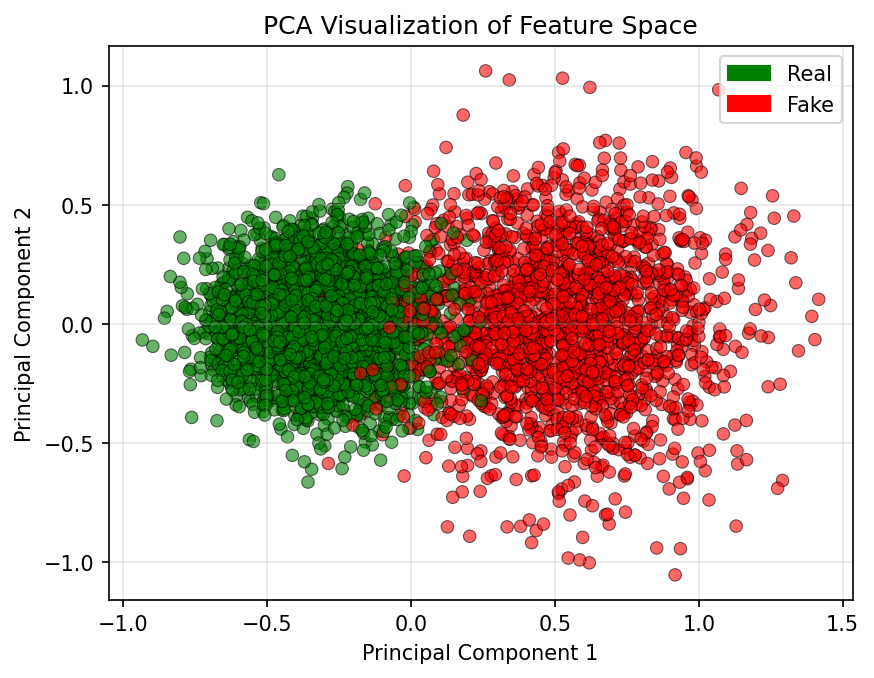
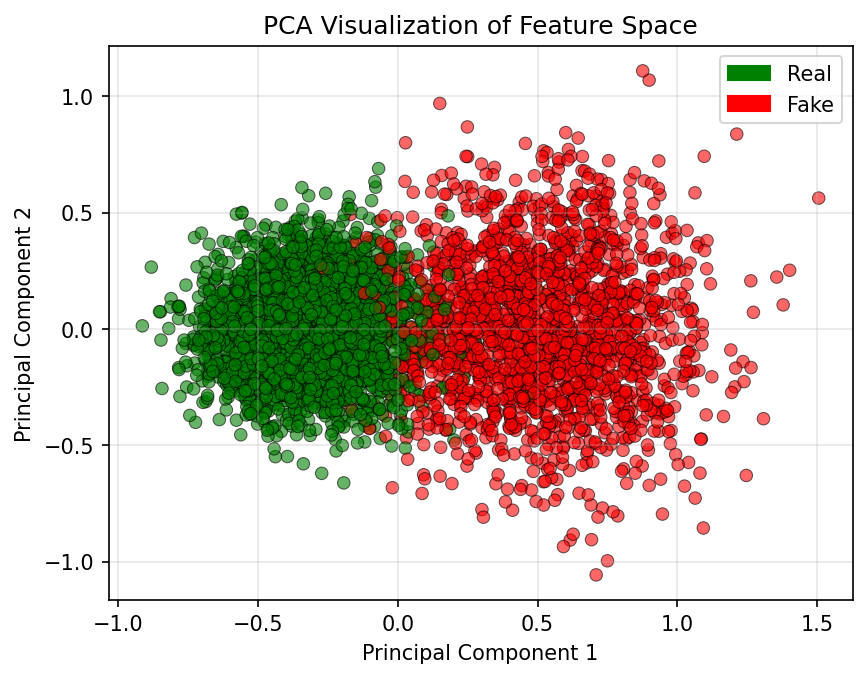
Add files via upload

diff --git a/test_model.py b/test_model.py
@@ -1,11 +1,18 @@
+#!/usr/bin/env python3
 # -*- coding: utf-8 -*-
 """
+AI换脸模型测试软件（英文图表版 - 美化样式版）
+批量测试真实/伪造图片，输出性能指标并绘制图表（带面积填充）
+
 python test_model.py --real_dir ./real --fake_dir ./fake \
                      --model isolation_forest_model.pkl \
                      --scaler scaler.pkl \
                      --threshold threshold.txt \
                      --predictor shape_predictor_68_face_landmarks.dat \
                      --output_dir ./results
+
+
+python test_model.py --real_dir ./data/dedup_real --fake_dir ./data/dedup_fake --model isolation_forest_model_202602221638.pkl --scaler scaler_202602221638.pkl --threshold threshold_202602221638.txt --predictor shape_predictor_68_face_landmarks.dat
 """
 
 import os
@@ -17,7 +24,7 @@ import cv2
 import dlib
 import numpy as np
 import matplotlib
-matplotlib.use('Agg')
+matplotlib.use('Agg')  # 无图形界面时仍可保存图片
 import matplotlib.pyplot as plt
 from sklearn.decomposition import PCA
 from sklearn.metrics import (
@@ -37,19 +44,26 @@ DEFAULT_PREDICTOR_PATH = "shape_predictor_68_face_landmarks.dat"
 
 # 初始化dlib
 detector = dlib.get_frontal_face_detector()
-predictor = None
+predictor = None  # 将在主程序中加载
 
+# -------------------- 特征提取函数（与训练时完全一致） --------------------
 def extract_features(image_path, predictor):
+    """
+    从单张图片提取特征向量
+    返回: 特征列表 (numpy array) 或 None（如果人脸检测失败）
+    """
     img = cv2.imread(image_path)
     if img is None:
         return None
     gray = cv2.cvtColor(img, cv2.COLOR_BGR2GRAY)
 
+    # 人脸检测
     faces = detector(gray, 1)
     if len(faces) == 0:
         return None
-    face = faces[0]
+    face = faces[0]  # 取最大人脸
 
+    # 获取关键点
     landmarks = predictor(gray, face)
     points = np.array([(p.x, p.y) for p in landmarks.parts()])
 
@@ -138,7 +152,12 @@ def extract_features(image_path, predictor):
     ])
     return features
 
+# -------------------- 批量处理函数 --------------------
 def process_directory(dir_path, label, model, scaler, threshold, predictor, ext_list=('*.jpg','*.jpeg','*.png')):
+    """
+    处理一个目录下的所有图片
+    返回: 特征列表, 得分列表, 预测标签列表, 真实标签列表, 成功图片路径列表, 失败计数
+    """
     features_list = []
     scores_list = []
     preds_list = []
@@ -146,6 +165,7 @@ def process_directory(dir_path, label, model, scaler, threshold, predictor, ext_
     img_paths_success = []
     fail_count = 0
 
+    # 收集所有图片
     image_paths = []
     for ext in ext_list:
         image_paths.extend(glob.glob(os.path.join(dir_path, ext)))
@@ -172,56 +192,85 @@ def process_directory(dir_path, label, model, scaler, threshold, predictor, ext_
 
     return features_list, scores_list, preds_list, true_labels, img_paths_success, fail_count
 
+# -------------------- 绘图函数（美化版 - 带面积填充） --------------------
 def save_roc_curve(y_true, y_score, save_path):
+    """绘制ROC曲线（带面积填充）"""
     fpr, tpr, _ = roc_curve(y_true, y_score)
     roc_auc = auc(fpr, tpr)
-    plt.figure()
-    plt.plot(fpr, tpr, color='darkorange', lw=2, label=f'ROC curve (AUC = {roc_auc:.3f})')
-    plt.plot([0, 1], [0, 1], color='navy', lw=2, linestyle='--')
+
+    plt.figure(figsize=(8, 6))
+    # 绘制曲线
+    plt.plot(fpr, tpr, color='#E74C3C', lw=2.5, label=f'ROC curve (AUC = {roc_auc:.4f})')
+    # 填充曲线下面积
+    plt.fill_between(fpr, tpr, alpha=0.15, color='#E74C3C')
+    # 对角线
+    plt.plot([0, 1], [0, 1], color='#34495E', lw=2, linestyle='--', alpha=0.7)
+
     plt.xlim([0.0, 1.0])
     plt.ylim([0.0, 1.05])
-    plt.xlabel('False Positive Rate')
-    plt.ylabel('True Positive Rate')
-    plt.title('Receiver Operating Characteristic (ROC)')
-    plt.legend(loc="lower right")
-    plt.grid(alpha=0.3)
+    plt.xlabel('False Positive Rate', fontsize=12)
+    plt.ylabel('True Positive Rate', fontsize=12)
+    plt.title('Receiver Operating Characteristic (ROC)', fontsize=14)
+    plt.legend(loc="lower right", fontsize=11)
+    plt.grid(alpha=0.3, linestyle='--')
+    plt.tight_layout()
     plt.savefig(save_path, dpi=150, bbox_inches='tight')
     plt.close()
     return roc_auc
 
 def save_pr_curve(y_true, y_score, save_path):
+    """绘制PR曲线（带面积填充）"""
     precision, recall, _ = precision_recall_curve(y_true, y_score)
     ap = average_precision_score(y_true, y_score)
-    plt.figure()
-    plt.plot(recall, precision, color='blue', lw=2, label=f'PR curve (AP = {ap:.3f})')
-    plt.xlabel('Recall')
-    plt.ylabel('Precision')
-    plt.title('Precision-Recall Curve')
-    plt.legend(loc="lower left")
-    plt.grid(alpha=0.3)
+
+    plt.figure(figsize=(8, 6))
+    # 绘制曲线
+    plt.plot(recall, precision, color='#3498DB', lw=2.5, label=f'PR curve (AP = {ap:.4f})')
+    # 填充曲线下面积
+    plt.fill_between(recall, precision, alpha=0.15, color='#3498DB')
+
+    # 基准线（随机分类器）
+    pos_ratio = np.sum(y_true) / len(y_true)
+    plt.axhline(y=pos_ratio, color='#34495E', linestyle='--', alpha=0.7,
+                label=f'Baseline ({pos_ratio:.3f})')
+
+    plt.xlabel('Recall', fontsize=12)
+    plt.ylabel('Precision', fontsize=12)
+    plt.title('Precision-Recall Curve', fontsize=14)
+    plt.legend(loc="lower left", fontsize=11)
+    plt.xlim([0.0, 1.0])
+    plt.ylim([0.0, 1.05])
+    plt.grid(alpha=0.3, linestyle='--')
+    plt.tight_layout()
     plt.savefig(save_path, dpi=150, bbox_inches='tight')
     plt.close()
     return ap
 
 def save_confusion_matrix(y_true, y_pred, save_path, labels=['Real', 'Fake']):
+    """
+    绘制混淆矩阵，每个格子的面积与对应的样本数成正比
+    """
     cm = confusion_matrix(y_true, y_pred)
     tn, fp, fn, tp = cm.ravel()
     values = [[tn, fp], [fn, tp]]
     max_val = max(tn, fp, fn, tp)
     if max_val == 0:
-        return
+        return  # 无数据，不绘图
 
-    fig, ax = plt.subplots(figsize=(6,5))
-    scale = 0.8
+    fig, ax = plt.subplots(figsize=(6, 5))
+    scale = 0.8  # 最大矩形尺寸占单元格的比例，避免重叠
 
-    for i in range(2):
-        for j in range(2):
+    # 绘制四个矩形，坐标：x轴为预测类别(0左,1右)，y轴为真实类别(0上,1下)
+    for i in range(2):          # 真实标签 i=0:Real, i=1:Fake
+        for j in range(2):      # 预测标签 j=0:Real, j=1:Fake
             val = values[i][j]
             if val == 0:
                 continue
+            # 矩形的宽度和高度与 val 的平方根成正比，使得面积与 val 成正比
             size = np.sqrt(val / max_val) * scale
             w = size
             h = size
+            # 中心点坐标：(j, 1-i) 使矩阵的左上角为TN
             center_x = j
             center_y = 1 - i
             rect = plt.Rectangle(
@@ -231,56 +280,76 @@ def save_confusion_matrix(y_true, y_pred, save_path, labels=['Real', 'Fake']):
                 linewidth=1
             )
             ax.add_patch(rect)
+            # 在矩形中心添加数字标签，根据背景色选择字体颜色
             text_color = 'white' if val/max_val > 0.5 else 'black'
             ax.text(center_x, center_y, str(val),
                     ha='center', va='center', fontsize=12, color=text_color)
 
+    # 设置坐标轴范围与标签
     ax.set_xlim(-0.5, 1.5)
     ax.set_ylim(-0.5, 1.5)
     ax.set_xticks([0, 1])
     ax.set_xticklabels(labels)
     ax.set_yticks([0, 1])
     ax.set_yticklabels(labels[::-1])  # 反转使顶部为Real，底部为Fake
-    ax.set_xlabel('Predicted label')
-    ax.set_ylabel('True label')
-    ax.set_title('Confusion Matrix (area ∝ count)')
+    ax.set_xlabel('Predicted label', fontsize=12)
+    ax.set_ylabel('True label', fontsize=12)
+    ax.set_title('Confusion Matrix (area ∝ count)', fontsize=14)
     ax.set_aspect('equal')
     plt.tight_layout()
     plt.savefig(save_path, dpi=150, bbox_inches='tight')
     plt.close()
 
-def save_score_distribution(y_true, y_score, save_path):
+def save_score_distribution(y_true, y_score, save_path, threshold_val=None):
+    """绘制得分分布（带阈值线）"""
     real_scores = [y_score[i] for i in range(len(y_true)) if y_true[i] == 0]
     fake_scores = [y_score[i] for i in range(len(y_true)) if y_true[i] == 1]
-    plt.figure()
-    plt.hist(real_scores, bins=30, alpha=0.7, label='Real', color='green', density=True)
-    plt.hist(fake_scores, bins=30, alpha=0.7, label='Fake', color='red', density=True)
-    plt.xlabel('Anomaly Score')
-    plt.ylabel('Density')
-    plt.title('Anomaly Score Distribution')
-    plt.legend()
-    plt.grid(alpha=0.3)
+
+    plt.figure(figsize=(8, 6))
+    plt.hist(real_scores, bins=30, alpha=0.7, label='Real', color='#2ECC71', density=True, edgecolor='white', linewidth=0.5)
+    plt.hist(fake_scores, bins=30, alpha=0.7, label='Fake', color='#E74C3C', density=True, edgecolor='white', linewidth=0.5)
+
+    # 添加阈值线
+    if threshold_val is not None:
+        plt.axvline(x=threshold_val, color='#34495E', linestyle='--', linewidth=2, label=f'Threshold = {threshold_val:.6f}')
+
+    plt.xlabel('Anomaly Score', fontsize=12)
+    plt.ylabel('Density', fontsize=12)
+    plt.title('Anomaly Score Distribution', fontsize=14)
+    plt.legend(fontsize=11)
+    plt.grid(alpha=0.3, linestyle='--')
+    plt.tight_layout()
     plt.savefig(save_path, dpi=150, bbox_inches='tight')
     plt.close()
 
 def save_pca_scatter(features, y_true, save_path):
+    """绘制PCA散点图（美化版）"""
     pca = PCA(n_components=2)
     features_2d = pca.fit_transform(features)
-    plt.figure()
-    colors = ['green' if label == 0 else 'red' for label in y_true]
-    plt.scatter(features_2d[:, 0], features_2d[:, 1], c=colors, alpha=0.6, edgecolors='k', linewidth=0.5)
-    plt.xlabel('Principal Component 1')
-    plt.ylabel('Principal Component 2')
-    plt.title('PCA Visualization of Feature Space')
-    # 创建图例
-    import matplotlib.patches as mpatches
-    green_patch = mpatches.Patch(color='green', label='Real')
-    red_patch = mpatches.Patch(color='red', label='Fake')
-    plt.legend(handles=[green_patch, red_patch])
-    plt.grid(alpha=0.3)
+
+    plt.figure(figsize=(8, 6))
+
+    # 分别绘制两类点
+    real_mask = np.array(y_true) == 0
+    fake_mask = np.array(y_true) == 1
+
+    plt.scatter(features_2d[real_mask, 0], features_2d[real_mask, 1],
+                c='#2ECC71', alpha=0.6, edgecolors='k', linewidth=0.5,
+                label='Real', s=50)
+    plt.scatter(features_2d[fake_mask, 0], features_2d[fake_mask, 1],
+                c='#E74C3C', alpha=0.6, edgecolors='k', linewidth=0.5,
+                label='Fake', s=50)
+
+    plt.xlabel('Principal Component 1', fontsize=12)
+    plt.ylabel('Principal Component 2', fontsize=12)
+    plt.title('PCA Visualization of Feature Space', fontsize=14)
+    plt.legend(fontsize=11)
+    plt.grid(alpha=0.3, linestyle='--')
+    plt.tight_layout()
     plt.savefig(save_path, dpi=150, bbox_inches='tight')
     plt.close()
 
+# -------------------- 主程序 --------------------
 def main():
     parser = argparse.ArgumentParser(description='AI Face Forgery Model Testing Tool')
     parser.add_argument('--real_dir', type=str, required=True, help='Directory containing real face images')
@@ -292,11 +361,13 @@ def main():
     parser.add_argument('--output_dir', type=str, default=None, help='Output directory for charts and report (default: model_name + " test results")')
     args = parser.parse_args()
 
+    # 确定输出目录名称：模型名称 + " test results"
     if args.output_dir is None:
         model_basename = os.path.splitext(os.path.basename(args.model))[0]
         args.output_dir = model_basename + " test results"
     os.makedirs(args.output_dir, exist_ok=True)
 
+    # 加载模型、标准化器、阈值
     print("Loading model...")
     if not os.path.exists(args.model):
         print(f"Error: Model file {args.model} does not exist")
@@ -333,11 +404,13 @@ def main():
         args.fake_dir, 1, model, scaler, threshold, predictor
     )
 
+    # 合并数据
     all_features = np.array(real_feat + fake_feat)
     all_scores = np.array(real_scores + fake_scores)
     all_preds = np.array(real_preds + fake_preds)
     all_true = np.array(real_true + fake_true)
 
+    # 统计
     total_real = len(real_paths) + real_fail
     total_fake = len(fake_paths) + fake_fail
     success_real = len(real_paths)
@@ -359,7 +432,9 @@ def main():
     recall = tp / (tp + fn) if (tp + fn) > 0 else 0
     f1 = 2 * precision * recall / (precision + recall) if (precision + recall) > 0 else 0
 
+    # 新增：真实人脸识别准确率（特异性）和伪造人脸识别准确率（召回率）
     specificity = tn / (tn + fp) if (tn + fp) > 0 else 0
+    # recall 即为伪造人脸识别准确率
 
     print(f"Accuracy:  {accuracy:.4f}")
     print(f"Precision: {precision:.4f}")
@@ -381,20 +456,21 @@ def main():
 
     # 保存图表
     print(f"\nGenerating charts and saving to {args.output_dir} ...")
-    # ROC曲线
+    # ROC曲线（带面积填充）
     if roc_auc is not None:
         save_roc_curve(all_true, all_scores, os.path.join(args.output_dir, 'roc_curve.png'))
-    # PR曲线
+    # PR曲线（带面积填充）
     if ap is not None:
         save_pr_curve(all_true, all_scores, os.path.join(args.output_dir, 'pr_curve.png'))
-    # 混淆矩阵
+    # 混淆矩阵（面积比例版）
     save_confusion_matrix(all_true, all_preds, os.path.join(args.output_dir, 'confusion_matrix.png'))
-    # 得分分布
-    save_score_distribution(all_true, all_scores, os.path.join(args.output_dir, 'score_distribution.png'))
-    # PCA散点图
+    # 得分分布（带阈值线）
+    save_score_distribution(all_true, all_scores, os.path.join(args.output_dir, 'score_distribution.png'), threshold_val=threshold)
+    # PCA散点图（美化版）
     if len(all_features) > 1:
         save_pca_scatter(all_features, all_true, os.path.join(args.output_dir, 'pca_scatter.png'))
 
+    # 保存指标到文本文件
     report_path = os.path.join(args.output_dir, 'report.txt')
     with open(report_path, 'w', encoding='utf-8') as f:
         f.write("========== AI Face Forgery Model Test Report ==========\n")
